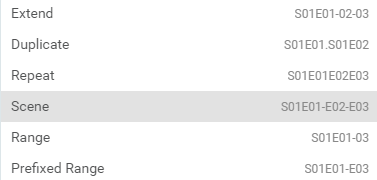
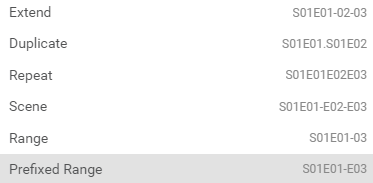
Updated: Preferred Sonarr Naming Scheme
Use 'Prefixed Range' instead of 'Scene' for better episode recognition in Plex.

diff --git a/docs/Sonarr/Sonarr-Release-Profile-RegEx-Anime.md b/docs/Sonarr/Sonarr-Release-Profile-RegEx-Anime.md
@@ -109,7 +109,7 @@ RESULT:
 #### Multi-Episode Style
 
 ```bash
-Scene
+Prefixed Range
 ```
 
 RESULTS:

diff --git a/docs/Sonarr/Sonarr-recommended-naming-scheme.md b/docs/Sonarr/Sonarr-recommended-naming-scheme.md
@@ -127,7 +127,7 @@ RESULT:
 ### Multi-Episode Style
 
 ```bash
-Scene
+Prefixed Range
 ```
 
 RESULTS:
